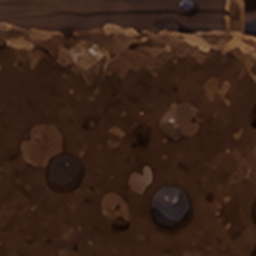
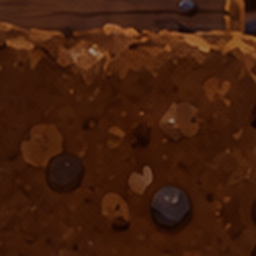
Add files via upload

Changed region(s): [[0.4062, 0.0938, 0.5938, 0.1875], [0.625, 0.125, 0.75, 0.1562], [0.375, 0.1875, 0.4375, 0.25]]

diff --git a/index.html b/index.html
@@ -3,8 +3,8 @@
 <head>
 <meta charset="utf-8" />
 <meta name="viewport" content="width=device-width, initial-scale=1, maximum-scale=1, user-scalable=no, viewport-fit=cover" />
-<meta name="theme-color" content="#24130d" />
-<title>Mole Quest — v5.5.3 Corrected Long Patrol</title>
+<meta name="theme-color" content="#2b170f" />
+<title>Mole Quest — v5.5.5 Visual Polish</title>
 <style>
   :root{
     --cream:#efe4d3;
@@ -26,10 +26,9 @@
     font-family:Inter,system-ui,-apple-system,BlinkMacSystemFont,"Segoe UI",sans-serif;
     color:var(--cream);
     background:
-      radial-gradient(circle at 50% -10%, #473322 0%, rgba(71,51,34,.0) 35%),
-      radial-gradient(circle at 18% 28%, rgba(80,120,180,.12) 0%, rgba(80,120,180,0) 22%),
-      radial-gradient(circle at 82% 18%, rgba(80,120,180,.10) 0%, rgba(80,120,180,0) 20%),
-      linear-gradient(180deg,#120f11,#070608 72%);
+      linear-gradient(rgba(18,8,5,.74), rgba(7,4,3,.86)),
+      url('mine-bg.jpg') center top / cover no-repeat fixed,
+      linear-gradient(180deg,#24130d,#090607 78%);
     display:flex;justify-content:center;
   }
   .app{
@@ -38,10 +37,12 @@
     position:relative;
   }
   .app::before{
-    content:"";position:fixed;inset:0;pointer-events:none;opacity:.16;
+    content:"";position:fixed;inset:0;pointer-events:none;opacity:.22;
     background:
-      radial-gradient(circle at 50% 12%, rgba(255,210,140,.18), transparent 22%),
-      linear-gradient(90deg, transparent 0 6%, rgba(255,255,255,.02) 6% 7%, transparent 7% 13%, rgba(255,255,255,.015) 13% 14%, transparent 14% 86%, rgba(255,255,255,.015) 86% 87%, transparent 87% 93%, rgba(255,255,255,.02) 93% 94%, transparent 94% 100%);
+      radial-gradient(circle at 18% 18%, rgba(255,182,82,.22), transparent 16%),
+      radial-gradient(circle at 82% 21%, rgba(255,182,82,.20), transparent 16%),
+      radial-gradient(circle at 12% 82%, rgba(72,196,255,.12), transparent 14%),
+      radial-gradient(circle at 88% 84%, rgba(72,196,255,.10), transparent 14%);
     mix-blend-mode:screen;
   }
   .topbar{display:grid;grid-template-columns:1.2fr repeat(5, minmax(74px,1fr));gap:8px;margin-bottom:10px;align-items:stretch}
@@ -82,24 +83,26 @@
   .utilitybar .count{color:#f0c57a;font-weight:1000}
   .shell{
     position:relative;padding:10px;border-radius:24px;
-    background:linear-gradient(180deg,#5e412d,#32231a 30%, #241914 100%);
-    border:1px solid #8c684a;
-    box-shadow:inset 0 0 0 1px rgba(255,230,200,.08), 0 18px 42px rgba(0,0,0,.45);
+    background:linear-gradient(180deg,rgba(110,71,40,.90),rgba(60,34,21,.94) 34%, rgba(34,20,14,.96) 100%);
+    border:1px solid rgba(170,123,79,.92);
+    box-shadow:inset 0 0 0 1px rgba(255,229,194,.10), 0 20px 44px rgba(0,0,0,.42), 0 0 0 1px rgba(0,0,0,.2);
+    backdrop-filter:blur(2px);
   }
   #board{
     display:grid;grid-template-columns:repeat(10,1fr);gap:1px;aspect-ratio:10/14;
     overflow:hidden;border-radius:16px;
-    background:#0f0c0d;touch-action:none;position:relative;
+    background:#140d09;touch-action:none;position:relative;
+    box-shadow:inset 0 0 0 1px rgba(255,227,185,.06), inset 0 0 40px rgba(0,0,0,.25);
   }
   .cell{position:relative;overflow:hidden;background:#1c110c center/cover no-repeat}
-  .cell::after{content:"";position:absolute;inset:0;box-shadow:inset 0 0 0 1px rgba(0,0,0,.18);pointer-events:none}
-  .wall{background-image:url('wall-tile.png');filter:brightness(.75) saturate(.78)}
-  .dirt{background-image:url('dirt-tile.png');filter:saturate(1.02) brightness(1.08) contrast(1.04)}
+  .cell::after{content:"";position:absolute;inset:0;box-shadow:inset 0 0 0 1px rgba(48,27,15,.38), inset 0 1px 0 rgba(255,233,198,.06);pointer-events:none}
+  .wall{background-image:url('wall-tile.png');filter:brightness(.92) saturate(.90) contrast(1.14)}
+  .dirt{background-image:url('dirt-tile.png');filter:saturate(1.06) brightness(1.05) contrast(1.08)}
   .fragile{background-image:url('dirt-tile.png');filter:saturate(.85) brightness(.92);box-shadow:inset 0 0 0 2px rgba(236,182,106,.18),0 0 10px rgba(255,187,90,.08)}
   .fragile::before{content:"";position:absolute;z-index:2;inset:6%;background:linear-gradient(62deg,transparent 44%,rgba(61,27,13,.98) 45% 51%,transparent 52%) 46% 18%/70% 66% no-repeat,linear-gradient(118deg,transparent 44%,rgba(73,33,16,.96) 45% 51%,transparent 52%) 58% 60%/78% 68% no-repeat,linear-gradient(18deg,transparent 43%,rgba(38,18,10,.94) 44% 50%,transparent 51%) 34% 74%/64% 48% no-repeat,radial-gradient(circle at 62% 30%,rgba(255,207,123,.25) 0 12%,transparent 13%);opacity:.98}
   .collapsed{background:radial-gradient(circle at 50% 48%,#0c0908 0 35%,#17100d 36% 62%,#2a1d17 63% 100%);box-shadow:inset 0 0 18px rgba(0,0,0,.85)}
   .collapsed::before{content:"";position:absolute;inset:12%;background:radial-gradient(circle at 18% 25%,#5d4636 0 6%,transparent 7%),radial-gradient(circle at 72% 62%,#4b382d 0 7%,transparent 8%),radial-gradient(circle at 43% 78%,#6a4d3c 0 5%,transparent 6%);opacity:.8}
-  .empty{background-image:url('tunnel-tile.png');filter:saturate(.38) brightness(1.72) contrast(.88)}
+  .empty{background-image:url('tunnel-tile.png');filter:saturate(.72) brightness(1.06) contrast(1.03)}
   .rock{background-image:url('rock-tile.png');filter:saturate(.78) brightness(.95)}
   .rock.falling{animation:rockDrop .18s ease-out;filter:brightness(1.04)}
   .gem{background-image:url('gem-tile.png');background-size:92% 92%;background-position:center;animation:gemPulse 1.8s ease-in-out infinite;filter:saturate(1.12) brightness(1.08)}
@@ -136,14 +139,14 @@
   .score-fx{color:#f0cf8a;font-size:16px}.exit-fx{color:#f3d99b;font-size:18px;white-space:nowrap}
   @keyframes floatFx{0%{opacity:0;transform:translate(-50%,-35%) scale(.72)}22%{opacity:1;transform:translate(-50%,-58%) scale(1.05)}100%{opacity:0;transform:translate(-50%,-125%) scale(.95)}}
   .hud{display:grid;grid-template-columns:1fr auto;gap:8px;margin-top:10px}
-  .status,.level{border-radius:15px;background:linear-gradient(180deg,#231d1a,#161214);border:1px solid #4a4038;box-shadow:inset 0 1px 0 rgba(255,255,255,.05)}
+  .status,.level{border-radius:15px;background:linear-gradient(180deg,rgba(42,28,22,.95),rgba(22,16,18,.95));border:1px solid #5a463c;box-shadow:inset 0 1px 0 rgba(255,255,255,.06)}
   .status{padding:12px 14px;font-size:13px;font-weight:700;line-height:1.35;color:#d5c6b4}
   .level{padding:11px 13px;min-width:94px;text-align:center;font-weight:900;color:#ebc474;display:flex;align-items:center;justify-content:center;letter-spacing:.04em}
   .controls{display:grid;grid-template-columns:repeat(3,78px);gap:8px;justify-content:center;margin-top:14px}
   button{height:66px;border-radius:18px;background:linear-gradient(180deg,#3e3a37,#292623 70%, #1c1a18);font-size:26px;box-shadow:inset 0 1px 0 rgba(255,255,255,.10),0 4px 12px rgba(0,0,0,.24);border:1px solid #615c57}
   button:active{transform:translateY(2px);box-shadow:inset 0 1px 0 rgba(255,255,255,.08),0 2px 6px rgba(0,0,0,.28)}
   .ghost{visibility:hidden}
-  .hint{text-align:center;font-size:12px;opacity:.72;margin-top:10px;color:#bba994;line-height:1.35}
+  .hint{text-align:center;font-size:12px;opacity:.88;margin-top:10px;color:#d0b99b;line-height:1.35}
   .death-note{position:absolute;left:50%;top:50%;transform:translate(-50%,-50%) scale(.92);z-index:12;padding:14px 18px;border-radius:18px;background:rgba(33,21,18,.92);border:1px solid #8f6b56;color:#fff4e8;font-weight:1000;font-size:17px;box-shadow:0 14px 34px rgba(0,0,0,.65),0 0 18px rgba(255,136,85,.18);opacity:0;pointer-events:none;transition:opacity .12s ease,transform .12s ease}
   .death-note.show{opacity:1;transform:translate(-50%,-50%) scale(1)}
   .shell.hurt{animation:shellShake .24s ease-in-out 1}
@@ -219,7 +222,7 @@
     <button id="testAddHints">+10 HINT</button>
   </div>
   <div class="economy-note">Prototype economy • 5 can • 20 dakikada 1 can • 3 başlangıç hinti</div>
-  <div class="build">v5.5.3 • Corrected Long Patrol</div>
+  <div class="build">v5.5.5 • No Softlock + Visual Polish</div>
 </div>
 
 <div class="win" id="win">
@@ -261,7 +264,7 @@ const W=10,H=14;
 const MAX_LIVES=5;
 const REFILL_MS=20*60*1000;
 const START_HINTS=3;
-const STORAGE_PREFIX='mq_v553_';
+const STORAGE_PREFIX='mq_v555_';
 function readStore(key,fallback){try{const v=localStorage.getItem(STORAGE_PREFIX+key);return v===null?fallback:Number(v)}catch(e){return fallback}}
 function writeStore(key,value){try{localStorage.setItem(STORAGE_PREFIX+key,String(value))}catch(e){}}
 let lives=Math.max(0,Math.min(MAX_LIVES,readStore('lives',MAX_LIVES)));
@@ -498,23 +501,23 @@ const levels=[
   },
   {
     id:'1–10',
-    intro:'Level 10: Soldaki kristalleri ve şalteri tamamla. Çatlak köprüden geçtikten sonra sağdaki devriye halkasını zamanlayarak çıkışa ulaş.',
-    hint:'Level 10: Böcek sağ bölümde gerçek bir halka üzerinde her başarılı hamlede bir kare ilerler. Önce sol tarafı tamamla, sonra geçide gir.',
-    hints:['Önce soldaki kristalleri ve şalteri tamamla. Geçide erken girme.','Sağdaki böcek daha uzun bir devriye turu atar ve her başarılı hamlende bir kare ilerler.','Böceğin bulunduğu kareye değil, bir sonraki kareye bakarak hareket et.'],
+    intro:'Level 10: Soldaki kristalleri ve şalteri tamamla. Geçitten sonra sağdaki devriye halkasını zamanlayarak çıkışa ulaş.',
+    hint:'Level 10: Böcek sağ bölümde gerçek bir halka üzerinde her başarılı hamlede bir kare ilerler. Geçitten iki yönde de dönebilirsin.',
+    hints:['Şalter geçidi açar; geçit artık dönüş yolunu kapatmaz. Soldaki kristalleri kaçırırsan geri dönebilirsin.','Sağdaki böcek daha uzun bir devriye turu atar ve her başarılı hamlende bir kare ilerler.','Böceğin bulunduğu kareye değil, bir sonraki kareye bakarak hareket et.'],
     enemyMode:'loop',
     enemyEvery:1,
     enemyPath:[[8,7],[8,8],[8,9],[8,10],[7,10],[6,10],[6,9],[6,8],[6,7],[6,6],[7,6],[8,6]],
     requiresKey:false,
     requiresSwitch:true,
     requiresPlate:false,
-    collapsingGround:true,
+    collapsingGround:false,
     map:[
       "##########",
       "#PddG#ddd#",
       "#dRdd#dGd#",
       "#ddSd#ddd#",
       "#Gddd#Gdd#",
-      "#dcccD...#",
+      "#d...D...#",
       "#ddG.#...#",
       "#dR..#..X#",
       "#....#...#",

diff --git a/README.md b/README.md
@@ -1,9 +1,15 @@
-Mole Quest v5.5.3 — Corrected Long Patrol
+Mole Quest v5.5.5 — Visual Polish + No Softlock
 
-- This package is based on the stable v5.5 line.
-- All version markers are now consistent: title, footer, README and storage prefix use v5.5.3.
-- Level 10 enemy uses a 12-cell open patrol loop on the right side.
-- The enemy moves one grid cell on every successful player move.
-- No rock is placed on or above the patrol loop.
-- Level 10 can be opened directly with ?level=10.
-- This package intentionally does NOT use the later v6 asset experiments.
+Bu sürüm v5.5.4 tabanı üstüne hazırlanmıştır.
+
+Dahil edilen düzeltmeler:
+- Level 10 softlock düzeltildi; sağ tarafa geçince geri dönüş mümkün.
+- Uzun böcek devriyesi korunur.
+- Genel görsel düzenleme eklendi.
+- Arka plan daha sıcak maden atmosferine çekildi.
+- Zemin / yol / duvar ayrımı daha net hale getirildi.
+- Tünel (boş yol) açık krem tonlu, duvar daha koyu, toprak daha sıcak yapıldı.
+
+Not:
+- Mekanik olarak güvenli taban yine v5.5.x çizgisidir.
+- Bu paket tek zip olarak yüklenebilir.
